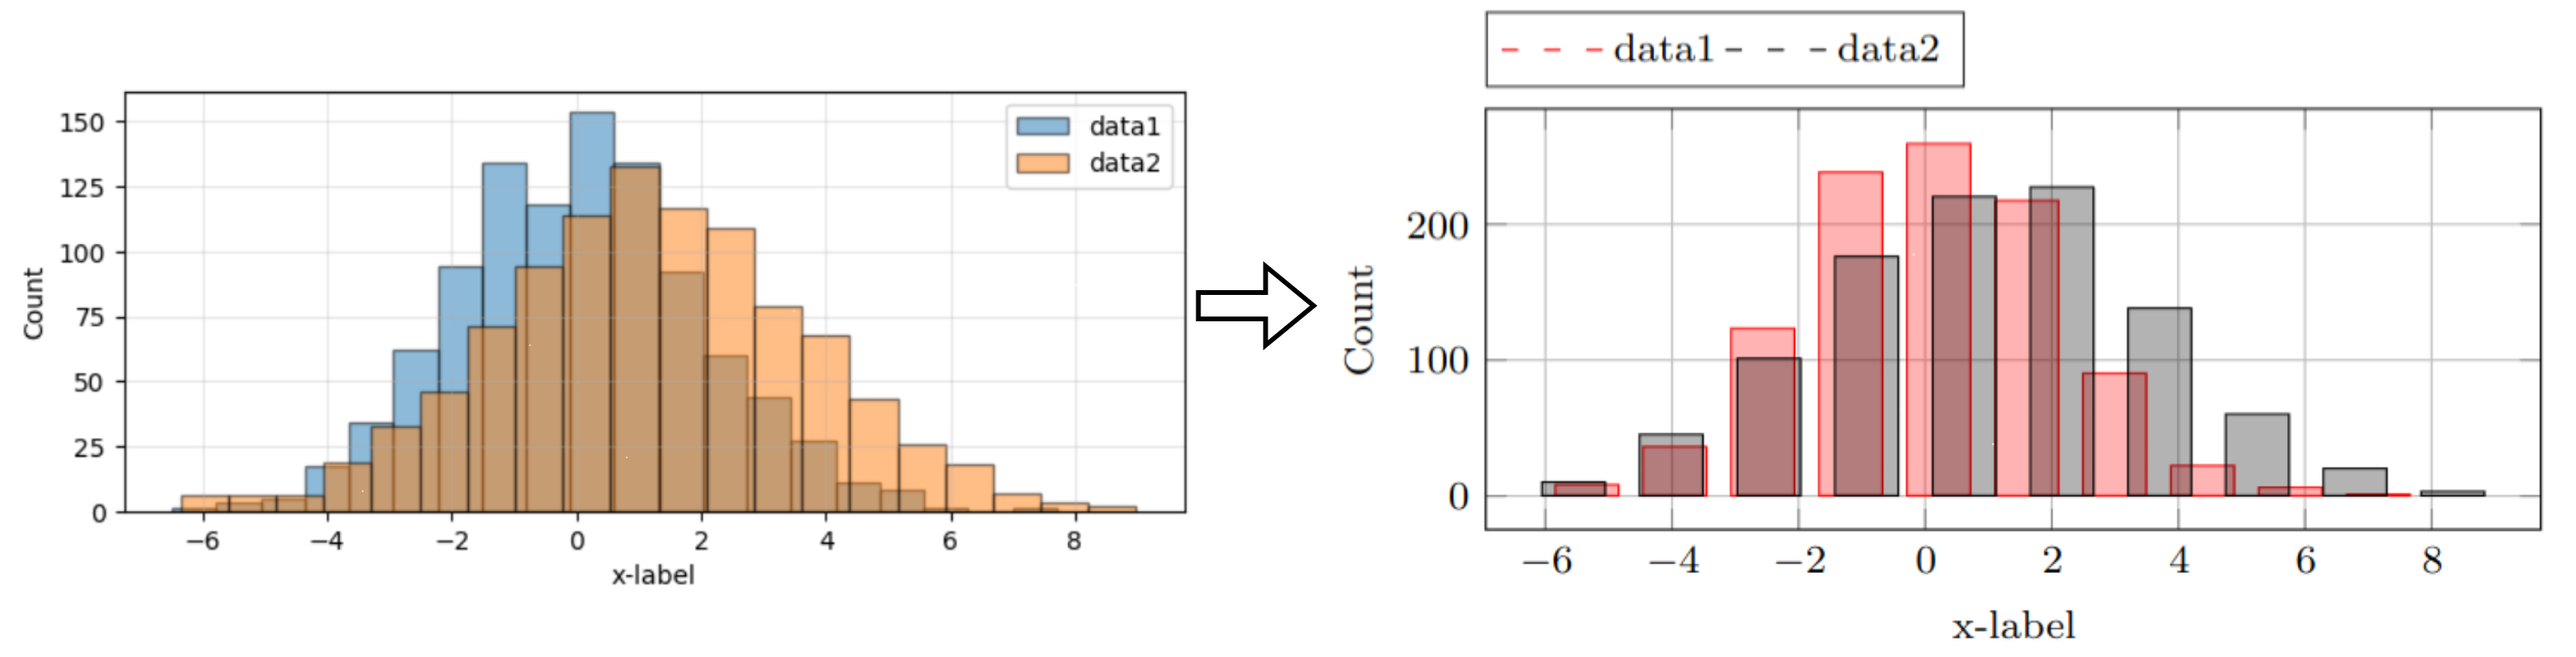
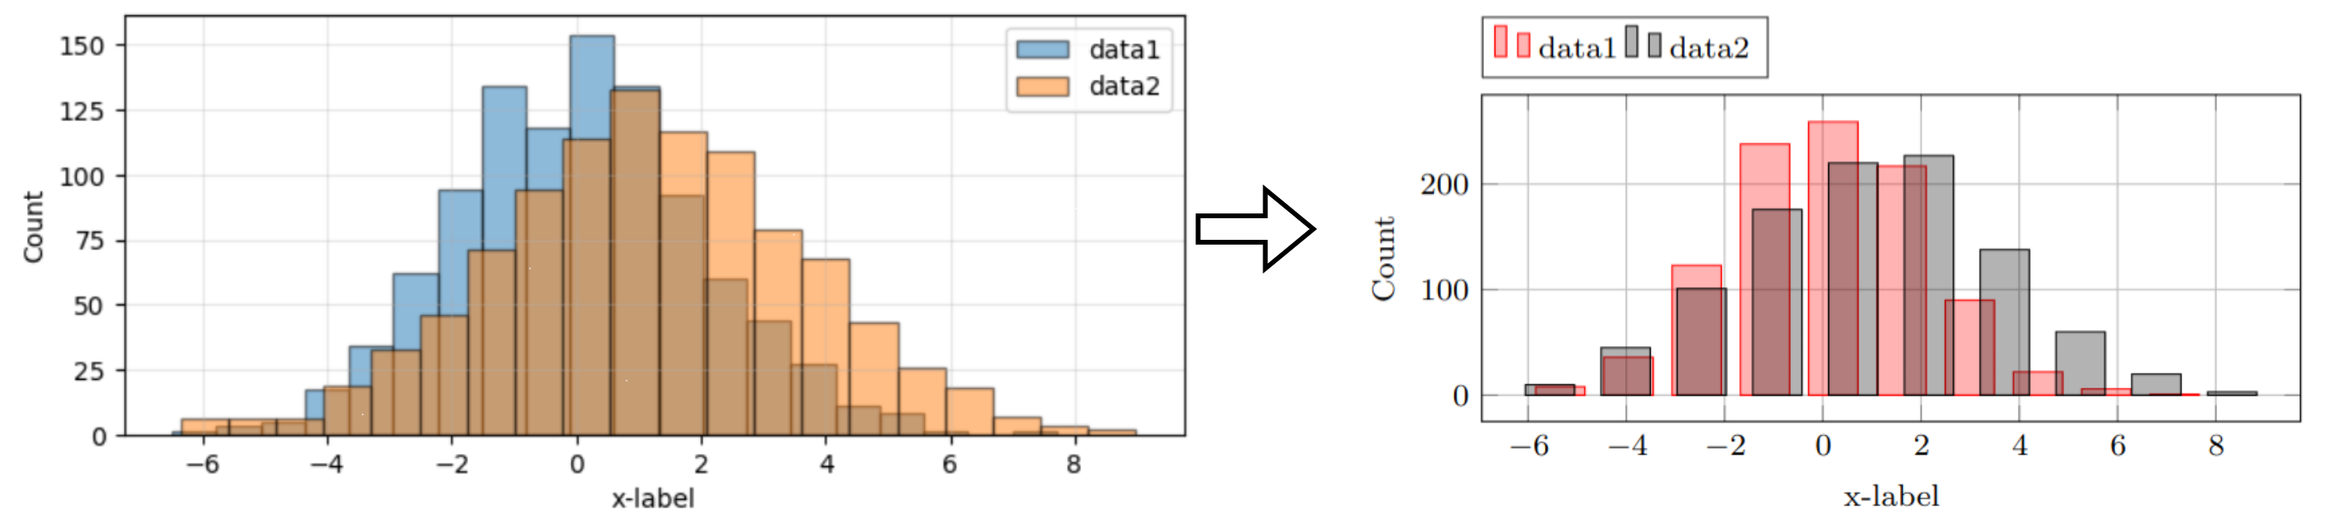
hist update legend

diff --git a/examples/LaTeX_layout.tex b/examples/LaTeX_layout.tex
@@ -24,7 +24,7 @@ The following are some examples of applications of the plot\LaTeX package.
 
 \subsection{Multiple line plot}
 
-\begin{figure}[h]
+\begin{figure}[ht]
     \centering
     \tikzstyle{every node}=[font=\footnotesize]
     \begin{tikzpicture}
@@ -63,8 +63,8 @@ The following are some examples of applications of the plot\LaTeX package.
             ylabel=Count,
             xlabel=x-label,
             % xtick={0,1,...,10},
+            % bar width=7pt,
             width=7.5cm,
-            bar width=1,
             height=3cm,
             at={(0cm,0cm)},
             scale only axis,
@@ -73,10 +73,10 @@ The following are some examples of applications of the plot\LaTeX package.
             legend columns = 2,
             legend style={at={(0,1.05)}, legend cell align=left, align=left, draw=white!15!black, mark options={draw=none}, anchor=south west},
          ]
-        \addplot[ybar,width=1,fill, fill opacity=0.3, red] 
+        \addplot[ybar,fill, fill opacity=0.3, red, ybar legend] 
         	table[x=data1xs,y=data1cnt,col sep=comma]{hist_results.csv};
         \addlegendentry{data1};
-        \addplot[ybar,fill, fill opacity=0.3, black] 
+        \addplot[ybar,fill, fill opacity=0.3, black, ybar legend] 
         	table[x=data2xs,y=data2cnt,col sep=comma]{hist_results.csv};
         \addlegendentry{data2};
         \end{axis}

diff --git a/plotLaTeX/hist_plot.py b/plotLaTeX/hist_plot.py
@@ -71,7 +71,7 @@ class HistPlot:
         print(r"         ]")
         # plot all y_list components
         for yn in self.hist_name_list:
-            print(r"        \addplot[ybar,fill, fill opacity=0.3, black] ")
+            print(r"        \addplot[ybar,fill, fill opacity=0.3, black, ybar legend] ")
             print(
                 f"        	table[x={yn}xs,y={yn}cnt,col sep=comma]"
                 + r"{"
